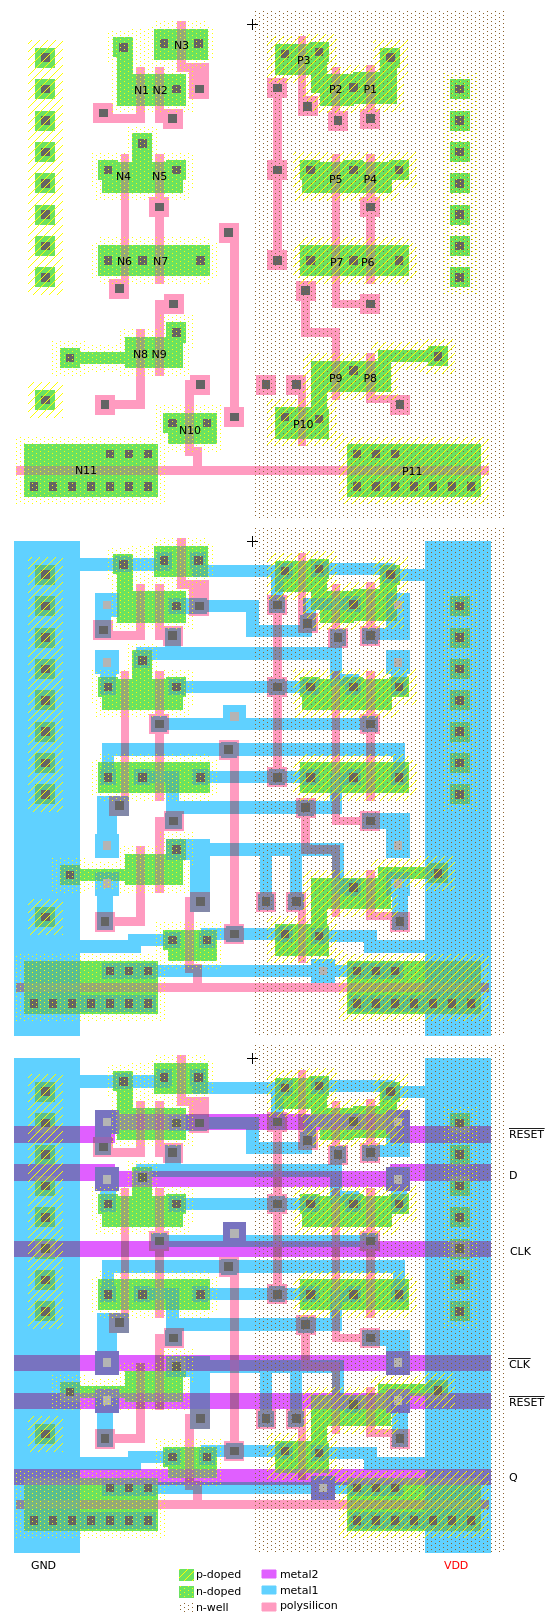
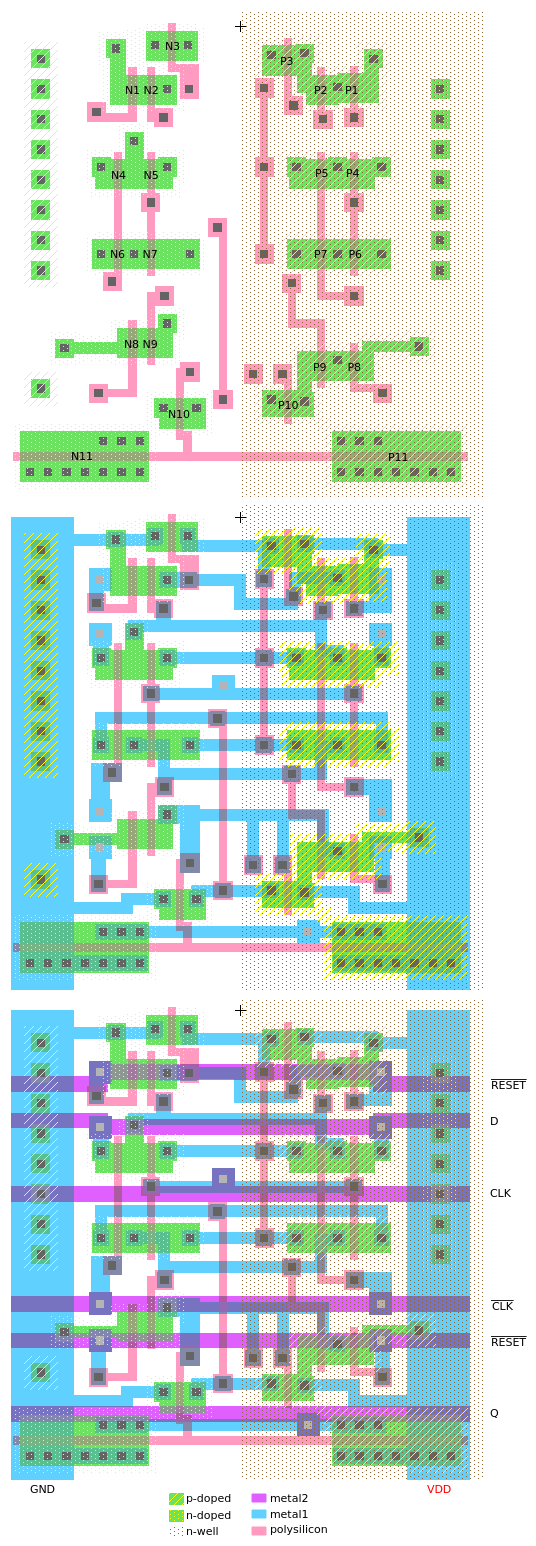
Add layouts and schematics for DFFR_B and DFFR_B2
+ Update description of DFFR_A, DFFR_B and DFFR_B2.
 + Update DFFR_A layout.

diff --git a/doc/dmg_cells.html b/doc/dmg_cells.html
@@ -3665,7 +3665,7 @@ When low, <i>Q</i> is not driven.</td></tr>
 <p>The output of this cell has a higher driving strength, comparable to the
 <a href="#inv_b">INVERTER - Variant B</a>.</p>
 <p>There is one external connection always made on this cell (see pink line in the picture) that is
-required to connect the two <i>IN</i> inputs.</p>
+connecting the two <i>IN</i> inputs, even though they are connected internally on poly layer.</p>
 <table>
 <tr><td><img src="img/cells/tri_buf_if0_xygu_fyra_sosa_desc.png?v=0" style="min-width:300px;" alt=""></td>
 <td><table class="default">
@@ -4389,10 +4389,10 @@ high again.</td></tr>
 <p>There are two clock inputs to this cell. They need to be inverted towards each other. There is usually an inverter
 cell nearby that generates the inverted clock. The flip-flop triggers on a positive edge of <i>CLK</i> and a negative
 edge of <span style="text-decoration:overline"><i>CLK</i></span>.</p>
-<p>There is one external connection always made on this cell (see pink line in the picture) that seem to be
-necessary for it to work.</p>
+<p>There is one external connection always made on this cell (see pink line in the picture) that is required
+to connect the two <span style="text-decoration:overline"><i>RESET</i></span> inputs.</p>
 <p>This variant is similar to variant B, but it is missing the <span style="text-decoration:overline"><i>Q</i></span>
-output. Furthermore, it is two rows shorter.</p>
+output. Furthermore, it is one row shorter.</p>
 <p>Name in <a href="https://github.com/furrtek/DMG-CPU-Inside">DMG-CPU-Inside</a>: DTFF</p>
 <table>
 <tr><td><img src="img/cells/dffr_a_eter_gyme_powy_desc.png?v=0" style="min-width:300px;" alt=""></td>
@@ -4416,7 +4416,7 @@ each other (by the pink line in the picture).</td></tr>
 <td>Data output.</td></tr>
 </table></td></tr>
 </table>
-<p><img src="img/cells/dffr_a_layout.png?v=0" alt=""></p>
+<p><img src="img/cells/dffr_a_layout.png?v=1" alt=""></p>
 <p><img src="img/cells/dffr_a_sch.png?v=0" alt=""></p>
 <p>Instances:
 <a href="/dmg_cpu_b_map/?view=c:defa">DEFA</a>
@@ -4457,8 +4457,8 @@ each other (by the pink line in the picture).</td></tr>
 cell nearby that generates the inverted clock. The flip-flop triggers on a positive edge of <i>CLK</i> and a negative
 edge of <span style="text-decoration:overline"><i>CLK</i></span>. Sometimes the clock inputs are driven by the <i>Q</i>
 and <span style="text-decoration:overline"><i>Q</i></span> outputs of another flip-flop of the same variant.</p>
-<p>There is one external connection always made on this cell (see pink line in the picture) that seem to be
-necessary for it to work.</p>
+<p>There is one external connection always made on this cell (see pink line in the picture) that is required
+to connect the two <span style="text-decoration:overline"><i>RESET</i></span> inputs.</p>
 <p>Name in <a href="https://github.com/furrtek/DMG-CPU-Inside">DMG-CPU-Inside</a>: DTFF</p>
 <table>
 <tr><td><img src="img/cells/dffr_b_zuze_dape_xadu_desc.png?v=0" style="min-width:300px;" alt=""></td>
@@ -4484,6 +4484,8 @@ each other (by the pink line in the picture).</td></tr>
 <td>Inverted data output.</td></tr>
 </table></td></tr>
 </table>
+<p><img src="img/cells/dffr_b_layout.png?v=0" alt=""></p>
+<p><img src="img/cells/dffr_b_sch.png?v=0" alt=""></p>
 <p>Instances:
 <a href="/dmg_cpu_b_map/?view=c:afer">AFER</a>
 <a href="/dmg_cpu_b_map/?view=c:cagy">CAGY</a>
@@ -4500,16 +4502,18 @@ each other (by the pink line in the picture).</td></tr>
 </p>
 <h3 id="dffr_b2">DFFR - Variant B2</h3>
 <p>Positive-edge-triggered data flip-flop with active-low asynchronous reset.</p>
-<p>This cell is basically the same as variant B but with an extension at the top. This extension seems
-to generate the inverted clock that is required.</p>
+<p>This cell is basically the same as variant B but with an extension at the top. This extension inverts
+the clock signal two times to regenerate a possibly degraded clock signal and also provide the complement
+clock in the process.</p>
 <p>There are three external connections always made on this cell (see cyan, green and pink lines in the
-picture) that seem to be necessary for it to work. The cyan and green connections feed the positive and
-negative clocks generated by the extension to where they would be connected to if this was a cell of variant
-B without extension. There is not a single instance of this cell that has those two clock connections crossed,
-which means all instances trigger on a positive clock edge.</p>
+picture). The cyan and green connections feed the positive and negative clocks generated by the extension to
+where they would be connected to if this was a cell of variant B without extension. There is not a single
+instance of this cell that has those two clock connections crossed, which means all instances trigger on a
+positive clock edge. The pink connection is required to connect the two
+<span style="text-decoration:overline"><i>RESET</i></span> inputs.</p>
 <p>Name in <a href="https://github.com/furrtek/DMG-CPU-Inside">DMG-CPU-Inside</a>: DTFF</p>
 <table>
-<tr><td><img src="img/cells/dffr_b2_keru_elyn_tufu_desc.png?v=0" style="min-width:300px;" alt=""></td>
+<tr><td><img src="img/cells/dffr_b2_keru_elyn_tufu_desc.png?v=1" style="min-width:300px;" alt=""></td>
 <td><table class="default">
 <tr><th>I/O</th><th>Description</th></tr>
 <tr><td><i>D</i></td>
@@ -4525,8 +4529,23 @@ to each other (by the pink line in the picture).</td></tr>
 <td>Data output.</td></tr>
 <tr><td><span style="text-decoration:overline"><i>Q</i></span></td>
 <td>Inverted data output.</td></tr>
+</table>
+<p>&nbsp;</p>
+<table class="default">
+<tr><th>External Connection</th><th>Description</th></tr>
+<tr><td><span style="color:gray"><i><span style="text-decoration:overline">CLK</span> OUT</i></span></td>
+<td>Outputs inverted state of <i>CLK</i>.</td></tr>
+<tr><td><span style="color:gray"><i><span style="text-decoration:overline">CLK</span> IN</i></span></td>
+<td>Input receiving the inverted clock from
+<span style="color:gray"><i><span style="text-decoration:overline">CLK</span> OUT</i></span>.</td></tr>
+<tr><td><span style="color:gray"><i>CLK OUT</i></span></td>
+<td>Outputs (double-inverted) state of <i>CLK</i>.</td></tr>
+<tr><td><span style="color:gray"><i>CLK IN</i></span></td>
+<td>Input receiving the clock from <span style="color:gray"><i>CLK OUT</i></span>.</td></tr>
 </table></td></tr>
 </table>
+<p><img src="img/cells/dffr_b2_layout.png?v=0" alt=""></p>
+<p><img src="img/cells/dffr_b2_sch.png?v=0" alt=""></p>
 <p>Instances:
 <a href="/dmg_cpu_b_map/?view=c:abel">ABEL</a>
 <a href="/dmg_cpu_b_map/?view=c:acef">ACEF</a>
